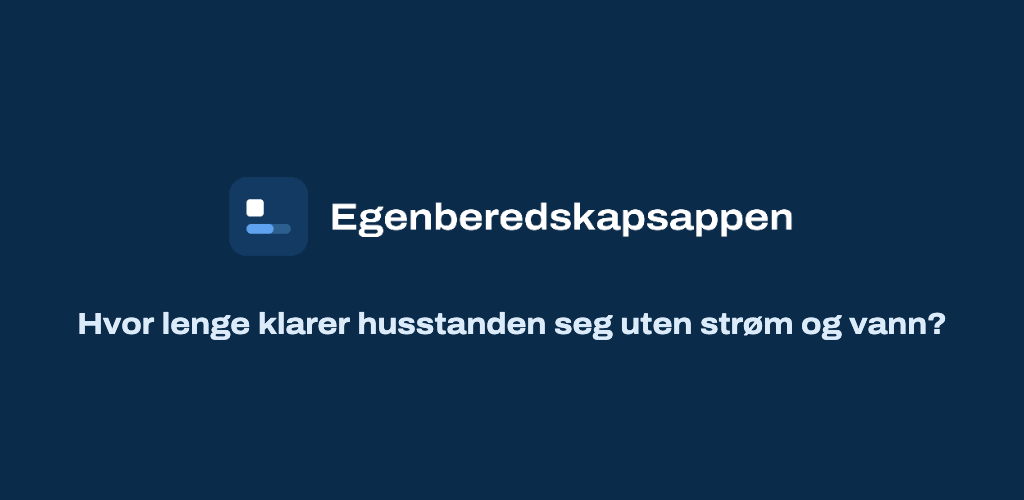
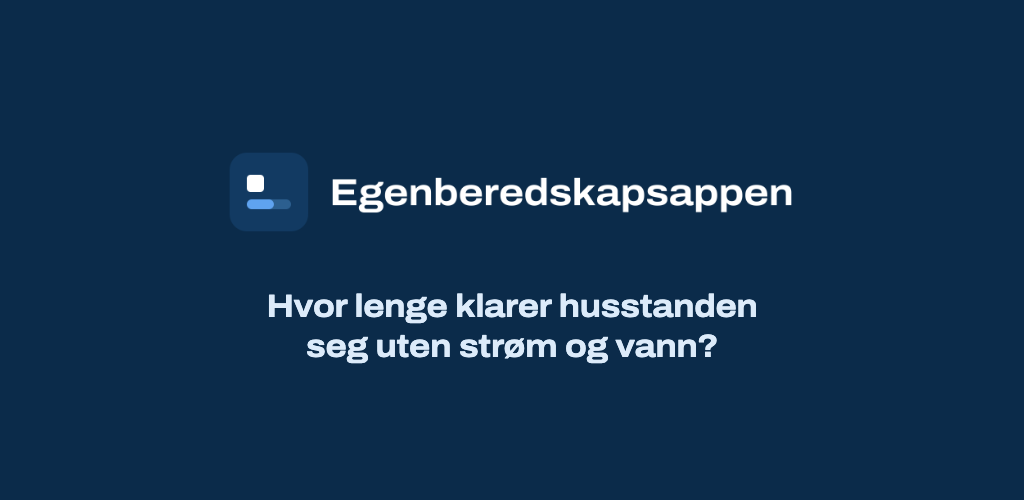
Store: feature graphic with clear space around the tagline
The tagline ran almost edge to edge; it now wraps to two lines inside 128 px of
side padding, and the page states the 1024×500 render command.

Changed region(s): [[0.0625, 0.57, 0.9375, 0.75], [0.3125, 0.36, 0.7812, 0.48], [0.2188, 0.33, 0.2812, 0.48]]

diff --git a/docs/store/feature-graphic.html b/docs/store/feature-graphic.html
@@ -9,9 +9,12 @@
   @font-face { font-family: "Archivo"; src: url("../marketing/fonts/archivo-bold-112.ttf"); font-weight: 700; }
   html, body { margin: 0; background: #0B2B4A; }
   .g { width: 1024px; height: 500px; background: #0B2B4A; display: flex; flex-direction: column; align-items: center;
-       justify-content: center; gap: 34px; font-family: "Archivo", "Helvetica Neue", Arial, sans-serif; }
+       justify-content: center; gap: 36px; padding: 0 128px; box-sizing: border-box;
+       font-family: "Archivo", "Helvetica Neue", Arial, sans-serif; }
   .g img { height: 118px; }
-  .g p { margin: 0; color: #DCEBFA; font-size: 30px; font-weight: 700; letter-spacing: -0.3px; text-align: center; }
+  /* Two lines with clear space on each side; Play crops the edges of the graphic in some placements. */
+  .g p { margin: 0; max-width: 640px; color: #DCEBFA; font-size: 32px; line-height: 1.25; font-weight: 700;
+         letter-spacing: -0.3px; text-align: center; text-wrap: balance; }
 </style>
 </head>
 <body>
